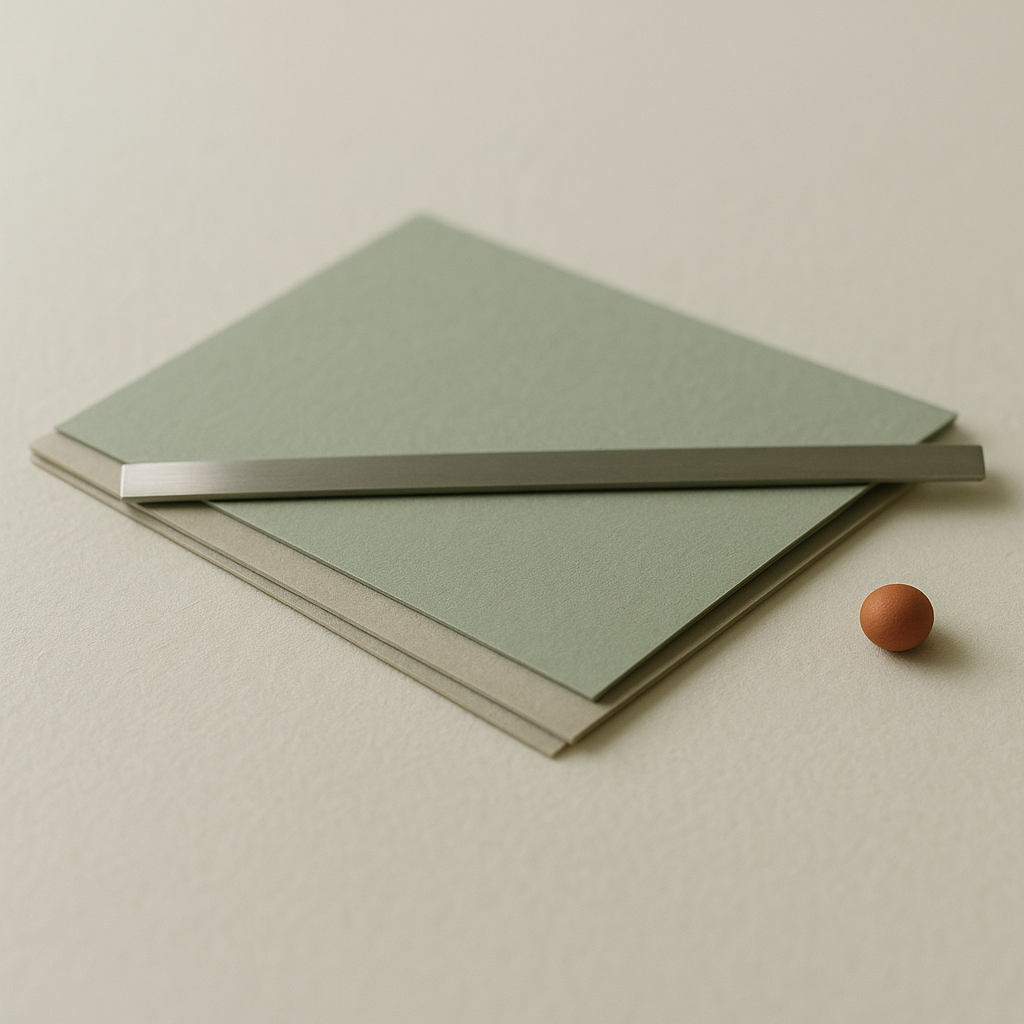
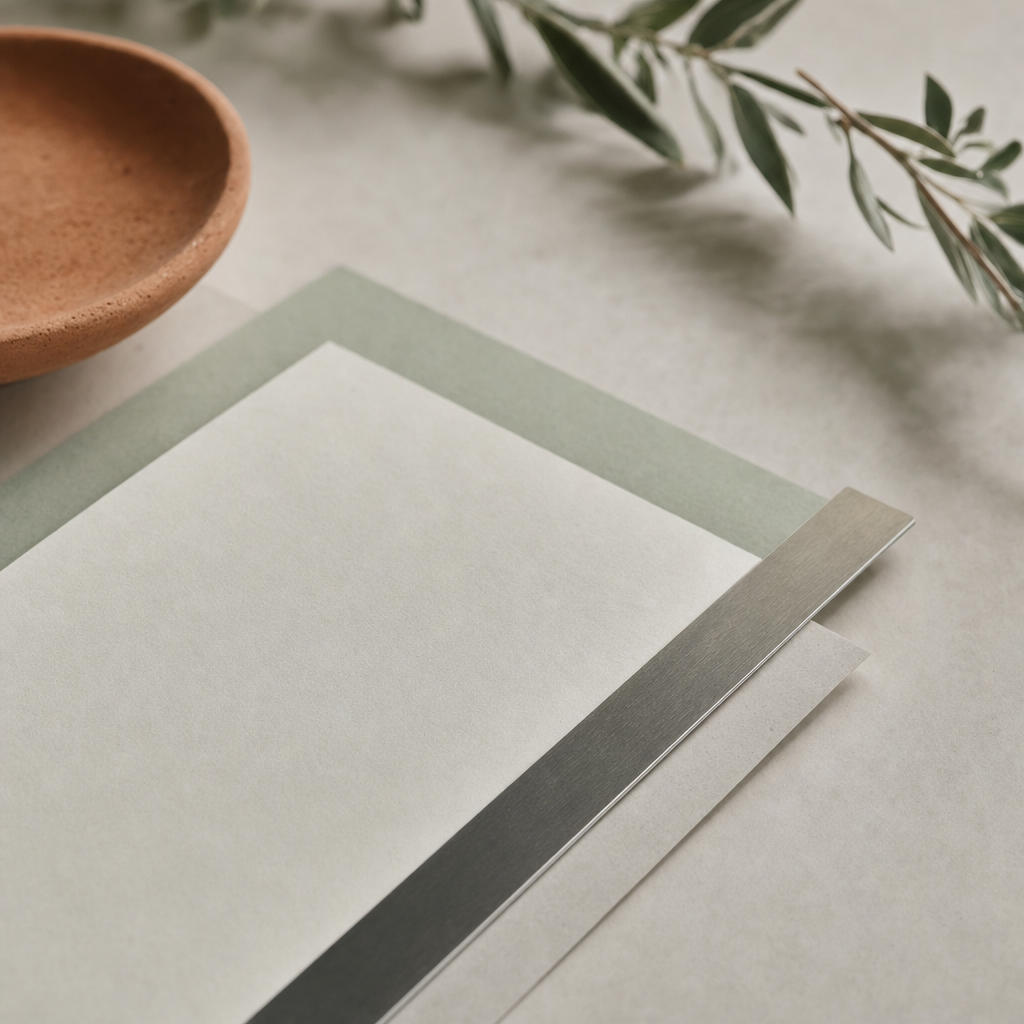
fix: le modele demande, le nombre demande, et l archive allegee
Deux retrecissements de la demande de Said, trouves par la session de surveillance et corriges ici. Il avait nomme GPT 2.0 ; un brief a traduit par openai/gpt-image-2, qui n existe dans aucun catalogue, et j ai alors pris openai/gpt-5-image-mini en ecrivant que la decoration n en demandait pas plus. Ce jugement ne m appartenait pas. Le catalogue porte openai/gpt-5.4-image-2, affiche OpenAI GPT-5.4 Image 2 : c est lui qui produit desormais les trois images. Il avait ecrit les photos, au pluriel ; j en avais livre une en invoquant le poids de l archive, alors que j avais nomme moi-meme la sortie propre dans le meme rapport.

Le surcout est mesure et non estime : 0,043 dollar pour l image du mini, 0,226 pour le meme prompt sur le modele reellement nomme, soit cinq fois et non le double que les prix affiches au jeton laissaient croire. Quatre generations sur huit au total, 0,722 dollar, tout est dans docs/images/PROMPTS.md avec les prompts mot pour mot.

L argument du poids tombe par .gitattributes : docs/images porte export-ignore, donc les images restent visibles sur GitHub et disparaissent de l archive que l on joint a une conversation. Le test exige desormais le modele reel, les trois images documentees avec leur cout, l exclusion de l archive, et toujours un texte alternatif qui previent que l image ne montre aucune sortie de l outil.
[…]

diff --git a/tests/core/test_documents.py b/tests/core/test_documents.py
@@ -216,11 +216,16 @@ def test_no_image_is_undocumented_or_passed_off_as_an_output():
     assert images, "no image: this test would pass by having nothing to check"
     for name in images:
         assert f"`{name}`" in paper, name
-    # The model asked for does not exist, and the substitution is stated rather than hidden.
-    assert "openai/gpt-image-2" in paper and "does not exist" in paper
+    # The model that was asked for is the one that was paid for, and the mistake that led
+    # to a cheaper one is written down rather than quietly fixed.
+    assert "openai/gpt-5.4-image-2" in paper
+    assert "openai/gpt-image-2" in paper and "exists in no catalogue" in paper
     assert "openai/gpt-5-image-mini" in paper
     # The cost is written down, because someone paid it.
     assert "Cost (USD)" in paper and "Total spent" in paper
+    # The archive people upload carries no decoration: the exclusion is part of the deal.
+    attributes = (ROOT / ".gitattributes").read_text(encoding="utf-8")
+    assert "docs/images/ export-ignore" in attributes
     # Wherever an image is used, the alt text disclaims it. Checked on every document.
     import re
 

diff --git a/scripts/make_images.py b/scripts/make_images.py
@@ -29,10 +29,12 @@ from pathlib import Path
 ROOT = Path(__file__).resolve().parents[1]
 FOLDER = ROOT / "docs" / "images"
 ENDPOINT = "https://openrouter.ai/api/v1/chat/completions"
-# `openai/gpt-image-2` was asked for and does not exist in the OpenRouter catalogue, which
-# lists `openai/gpt-5-image`, `openai/gpt-5-image-mini` and `openai/gpt-5.4-image-2`. The
-# mini model is the cheapest of that family and decoration asks nothing more of it.
-MODEL = "openai/gpt-5-image-mini"
+# The model the owner named, "GPT 2.0", is `openai/gpt-5.4-image-2` in the catalogue, shown
+# there as "OpenAI: GPT-5.4 Image 2". An earlier brief wrote it as `openai/gpt-image-2`,
+# which exists nowhere, and this script then fell back to the cheapest of the family on the
+# argument that decoration asks nothing more. That argument was not ours to make: what is
+# paid for is what was asked for, and the price difference is written down in PROMPTS.md.
+MODEL = "openai/gpt-5.4-image-2"
 PALETTE = "muted sage green, warm grey and a single terracotta accent on an off-white ground"
 NO_TEXT = "absolutely no text, no letters, no numbers, no symbols, no logo, no user interface"
 

diff --git a/docs/images/PROMPTS.md b/docs/images/PROMPTS.md
@@ -9,28 +9,41 @@ They are generated by `scripts/make_images.py`, which reads the key from the env
 writes it nowhere. The prompt, the model and the measured cost of each file are below, so a
 reader can reproduce them or object to them.
 
-## The model actually used
+They are also **excluded from the archive** by `.gitattributes`: `git archive` builds the
+zip people attach to a conversation, and four megabytes of decoration would be paid by
+everyone who uploads it. On GitHub the images show normally.
 
-`openai/gpt-image-2` was asked for. **It does not exist in the OpenRouter catalogue**,
-which lists `openai/gpt-5-image`, `openai/gpt-5-image-mini` and `openai/gpt-5.4-image-2`
-for that family. The substitute is **`openai/gpt-5-image-mini`**, the cheapest of the three,
-because decoration asks nothing more of a model.
+## The model, and a mistake worth writing down
+
+The model asked for was **"GPT 2.0"**. A brief turned that into `openai/gpt-image-2`, which
+exists in no catalogue, and a first pass then fell back to `openai/gpt-5-image-mini`, the
+cheapest of the family, on the argument that decoration asks nothing more.
+
+That argument was not ours to make. The catalogue entry that matches what was asked for is
+`openai/gpt-5.4-image-2`, shown there as *OpenAI: GPT-5.4 Image 2*, and that is what
+produced every image below. Choosing a cheaper model than the one named, and justifying it
+afterwards, is how a request quietly shrinks.
+
+The price of being right about this, measured rather than estimated: **0.043 USD** for the
+one image made by the mini model, against **0.226 USD** for the same prompt on the model
+that was actually named — five times, not the double the published token prices suggested.
 
 ## What was generated, and what it cost
 
 | File | Model | Prompt tokens | Completion tokens | Cost (USD) |
 |---|---|---|---|---|
-| `paper-rule.png` | `openai/gpt-5-image-mini` | 2 865 | 5 378 | **0.0430** |
+| `paper-rule.png` | `openai/gpt-5.4-image-2` | 1 775 | 7 137 | **0.2266** |
+| `vellum-pleats.png` | `openai/gpt-5.4-image-2` | 1 752 | 7 127 | **0.2263** |
+| `stone-grid.png` | `openai/gpt-5.4-image-2` | 1 739 | 7 111 | **0.2259** |
 
-One generation, out of a budget of eight. The budget was a ceiling, not a target: a second
-image would add more than a megabyte to the archive people paste into a conversation, and
-give a reader nothing they need.
+Four generations used out of a budget of eight: one on the mini model, now replaced, and
+these three.
 
-Total spent: **0.043 USD**.
+Total spent on images: **0.722 USD**.
 
 ## The prompts, word for word
 
-**`paper-rule.png`** — 1024 x 1024, 1 514 746 bytes:
+**`paper-rule.png`** — 1024 x 1024, the opening of both READMEs:
 
 > Minimal still life photograph, soft daylight: a few pale paper sheets layered on a calm
 > surface, the top one aligned exactly against a thin metal rule. muted sage green, warm
@@ -38,9 +51,19 @@ Total spent: **0.043 USD**.
 > and precise, absolutely no text, no letters, no numbers, no symbols, no logo, no user
 > interface.
 
-Two further prompts are written in `scripts/make_images.py` and were **not** generated:
-`vellum-pleats` and `stone-grid`. They cost nothing and stay there in case a page ever needs
-them.
+**`vellum-pleats.png`** — 1024 x 1024:
+
+> Abstract macro photograph: translucent vellum folded into even pleats, light passing
+> through the folds, regular geometry, muted sage green, warm grey and a single terracotta
+> accent on an off-white ground. Studio light, calm, absolutely no text, no letters, no
+> numbers, no symbols, no logo, no user interface.
+
+**`stone-grid.png`** — 1024 x 1024:
+
+> Minimal still life photograph: one smooth grey stone resting on a pale sheet ruled into a
+> faint square grid, soft shadow, muted sage green, warm grey and a single terracotta accent
+> on an off-white ground. Plain and unhurried, absolutely no text, no letters, no numbers,
+> no symbols, no logo, no user interface.
 
 ## The three rules these prompts keep
 

diff --git a/README.fr.md b/README.fr.md
@@ -60,6 +60,8 @@ tout, de l'installation au reçu. Deux faits de cet essai, datés et non promis 
 « Essayé le 13 octobre 2026 » n'est pas « fonctionne partout ». Les deux plateformes
 changent sans nous, et rien ici n'est une promesse de compatibilité.
 
+![Décoratif seulement : du vélin plissé. Ne montre aucune sortie de l'outil.](docs/images/vellum-pleats.png)
+
 ## Ce qui est contrôlé, et ce qui ne l'est pas
 
 | Statut | Sens |
@@ -104,6 +106,8 @@ activés, et le fichier le plus profond créé par une installation se trouve un
 caractères sous le dossier choisi : au-delà d'environ 150 caractères,
 `uv sync --locked` tronque l'installation **en silence**. L'outil refuse désormais de
 tourner dans cet état, sous `INSTALL_INCOMPLETE`, au lieu de planter plus tard.
+
+![Décoratif seulement : une pierre sur une feuille quadrillée. Ne montre aucune sortie de l'outil.](docs/images/stone-grid.png)
 
 ## La démo
 

diff --git a/README.md b/README.md
@@ -59,6 +59,8 @@ receipt. Two facts from that run, dated and not promised:
 "Tried on 13 October 2026" is not "works everywhere". Both platforms change under us, and
 nothing here is a compatibility promise.
 
+![Decorative only: folded vellum. It shows no output of the tool.](docs/images/vellum-pleats.png)
+
 ## What is checked, and what is not
 
 | Status | Meaning |
@@ -101,6 +103,8 @@ resolves at most 260 characters per path unless long paths are enabled, and the 
 file an install creates sits about a hundred characters below the folder you choose: past
 roughly 150 characters, `uv sync --locked` truncates the install in silence. The tool now
 refuses to run in that state, under `INSTALL_INCOMPLETE`, instead of crashing later.
+
+![Decorative only: a stone on a ruled sheet. It shows no output of the tool.](docs/images/stone-grid.png)
 
 ## The demo
 
